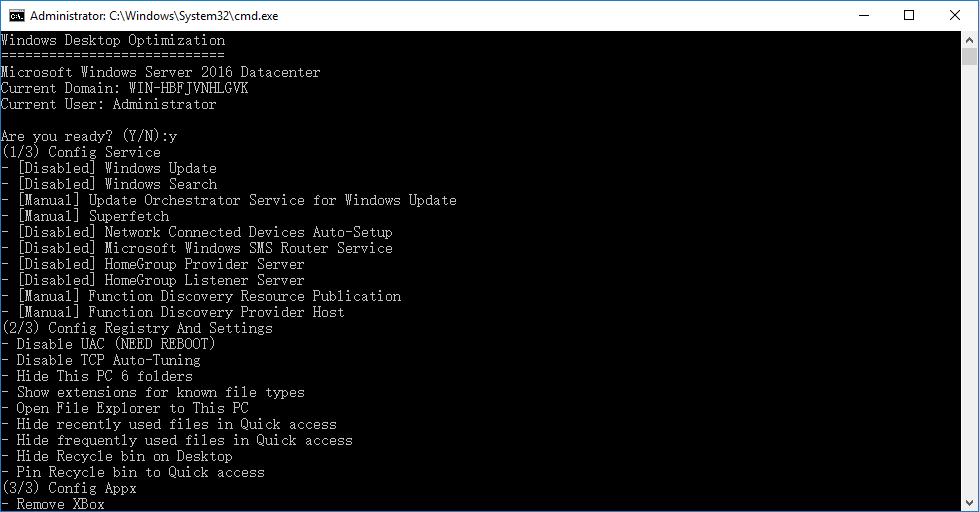
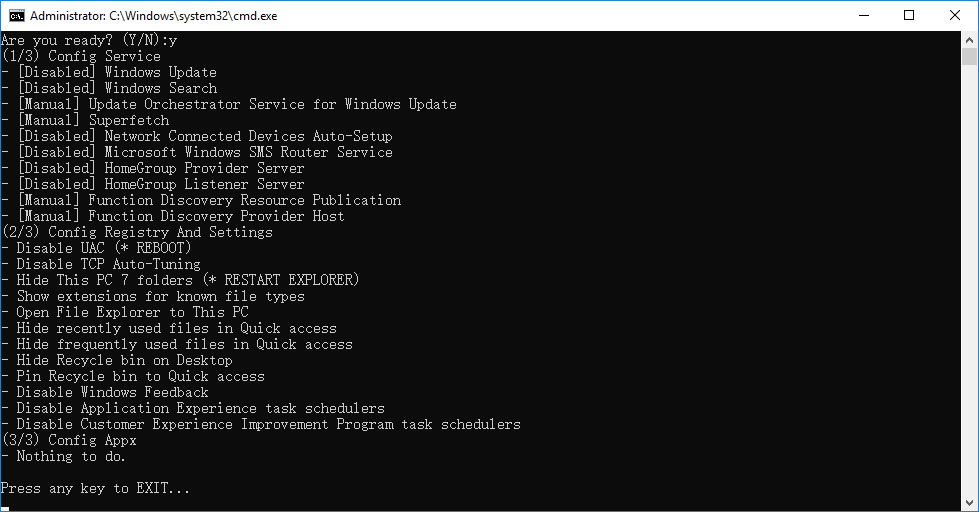
Add Disable Windows Feedback. Remove Pin GodMode control panel, Remove Appx.

Changed region(s): [[0.0, 0.0, 0.5209, 1.0], [0.3371, 0.6562, 0.3677, 0.6875], [0.2451, 0.9062, 0.2758, 0.9375]]

diff --git a/README.md b/README.md
@@ -20,20 +20,22 @@ Run `Windows Desktop Optimization.bat` as Administrator:
   - \[Manual] Function Discovery Provider Host
 
 * Config Registry and GroupPolicy
-  - Disable UAC (NEED REBOOT)
+  - Disable UAC (* REBOOT)
   - Disable TCP Auto-Tuning
-  - Hide This PC 6 folders
+  - Hide This PC 7 folders (* RESTART EXPLORER)
   - Show extensions for known file types
   - Open File Explorer to This PC
   - Hide recently used files in Quick access
   - Hide frequently used files in Quick access
   - Hide Recycle bin on Desktop
   - Pin Recycle bin to Quick access
-  - Pin GodMode control panel to Quick access
+  - ~~Pin GodMode control panel to Quick access~~
+  - Disable Windows Feedback
   - Disable Application Experience task schedulers
   - Disable Customer Experience Improvement Program task schedulers
 
 * Config Appx (for other win10 version)
-  - Remove XBox
-  - Remove Zune
-  - Remove Bing
+  - Nothing to do.
+  - ~~Remove XBox~~
+  - ~~Remove Zune~~
+  - ~~Remove Bing~~
